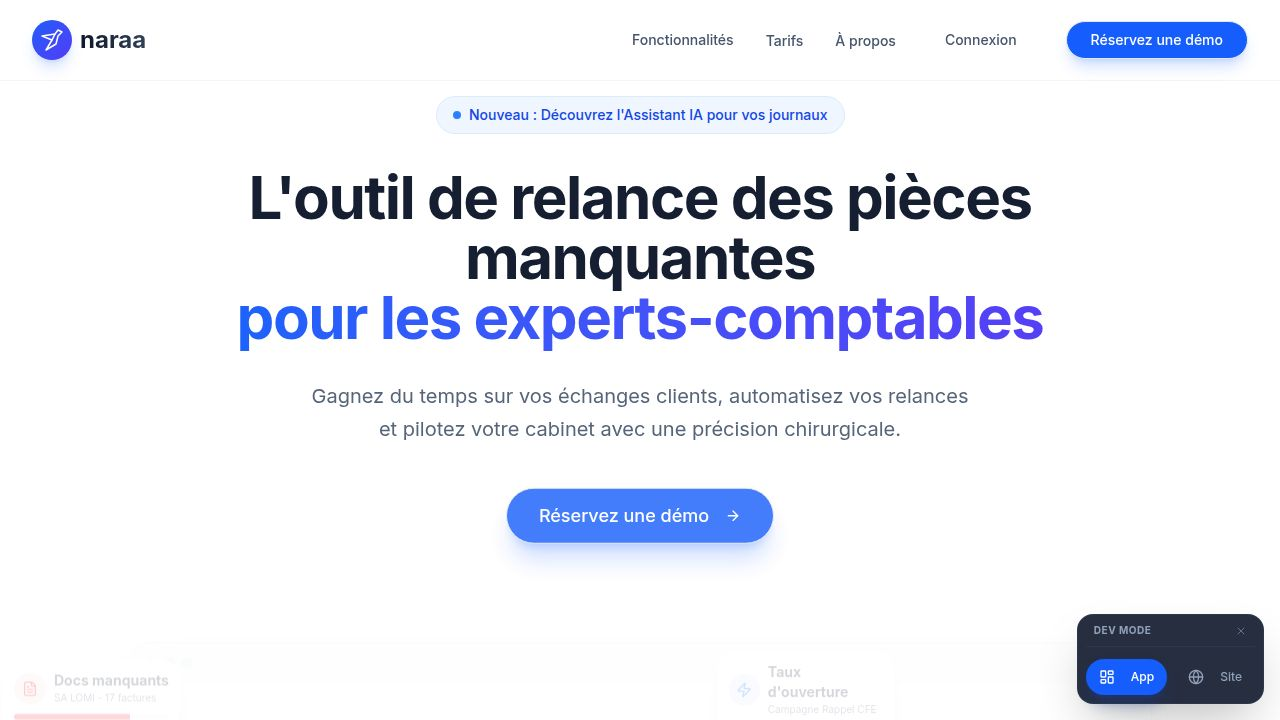
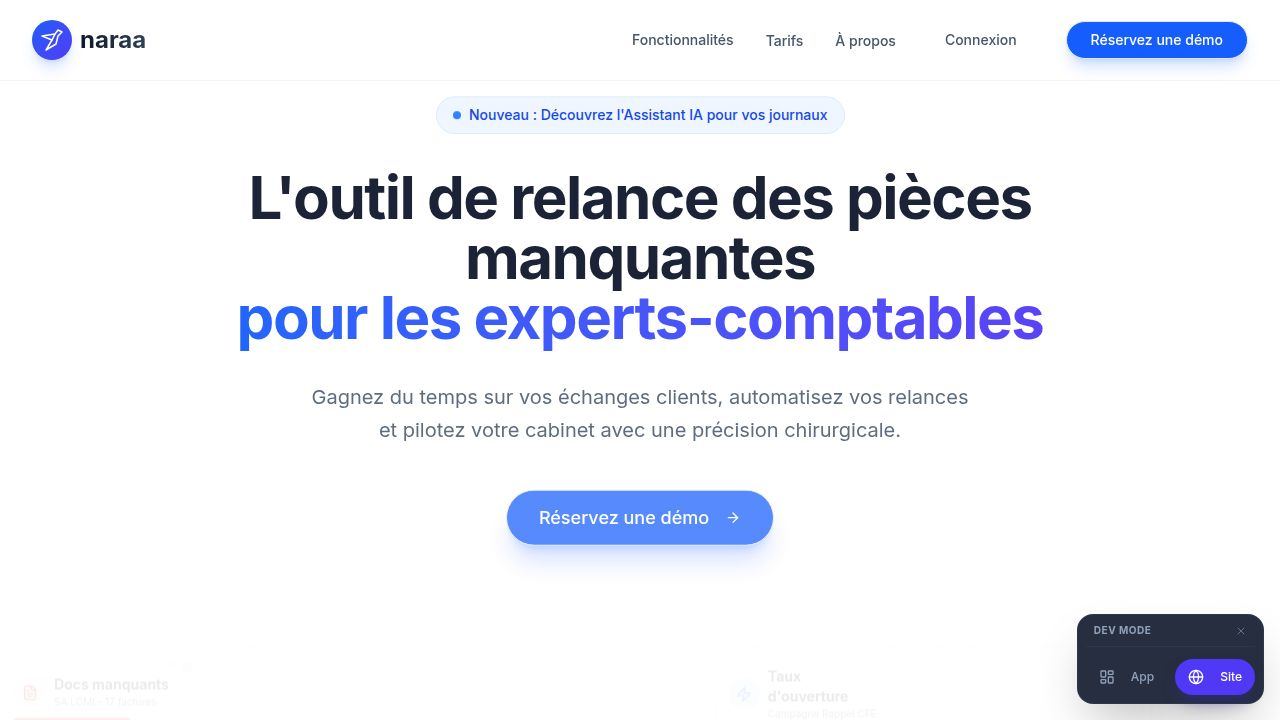
Update navigation links to correctly switch between application and website
Adjusted PreviewSwitcher component to correctly route to `/dashboard` for the app and `/` for the website, and updated the `isWebsite` logic to account for the new root path.

Replit-Commit-Author: Agent
Replit-Commit-Session-Id: c0703b9d-89b6-4631-8607-b3d2e10f8ac2
Replit-Commit-Checkpoint-Type: full_checkpoint
Replit-Commit-Event-Id: 73d5fe09-bd63-46cb-98d3-27e502918184
Replit-Commit-Screenshot-Url: https://storage.googleapis.com/screenshot-production-us-central1/aa67c514-b724-4d5a-8a85-482ac77d083c/c0703b9d-89b6-4631-8607-b3d2e10f8ac2/CtEtPgy
Replit-Helium-Checkpoint-Created: true

diff --git a/client/src/components/dev/PreviewSwitcher.tsx b/client/src/components/dev/PreviewSwitcher.tsx
@@ -8,7 +8,7 @@ export default function PreviewSwitcher() {
   const [isVisible, setIsVisible] = useState(true);
 
   // Determine active mode
-  const isWebsite = location === "/site-vitrine";
+  const isWebsite = location === "/" || location.startsWith("/site-vitrine");
   
   if (!isVisible) return null;
 
@@ -22,7 +22,7 @@ export default function PreviewSwitcher() {
       </div>
       
       <div className="flex gap-2">
-        <Link href="/">
+        <Link href="/dashboard">
           <Button 
             variant="ghost" 
             size="sm" 
@@ -37,7 +37,7 @@ export default function PreviewSwitcher() {
           </Button>
         </Link>
         
-        <Link href="/site-vitrine">
+        <Link href="/">
           <Button 
             variant="ghost" 
             size="sm" 
